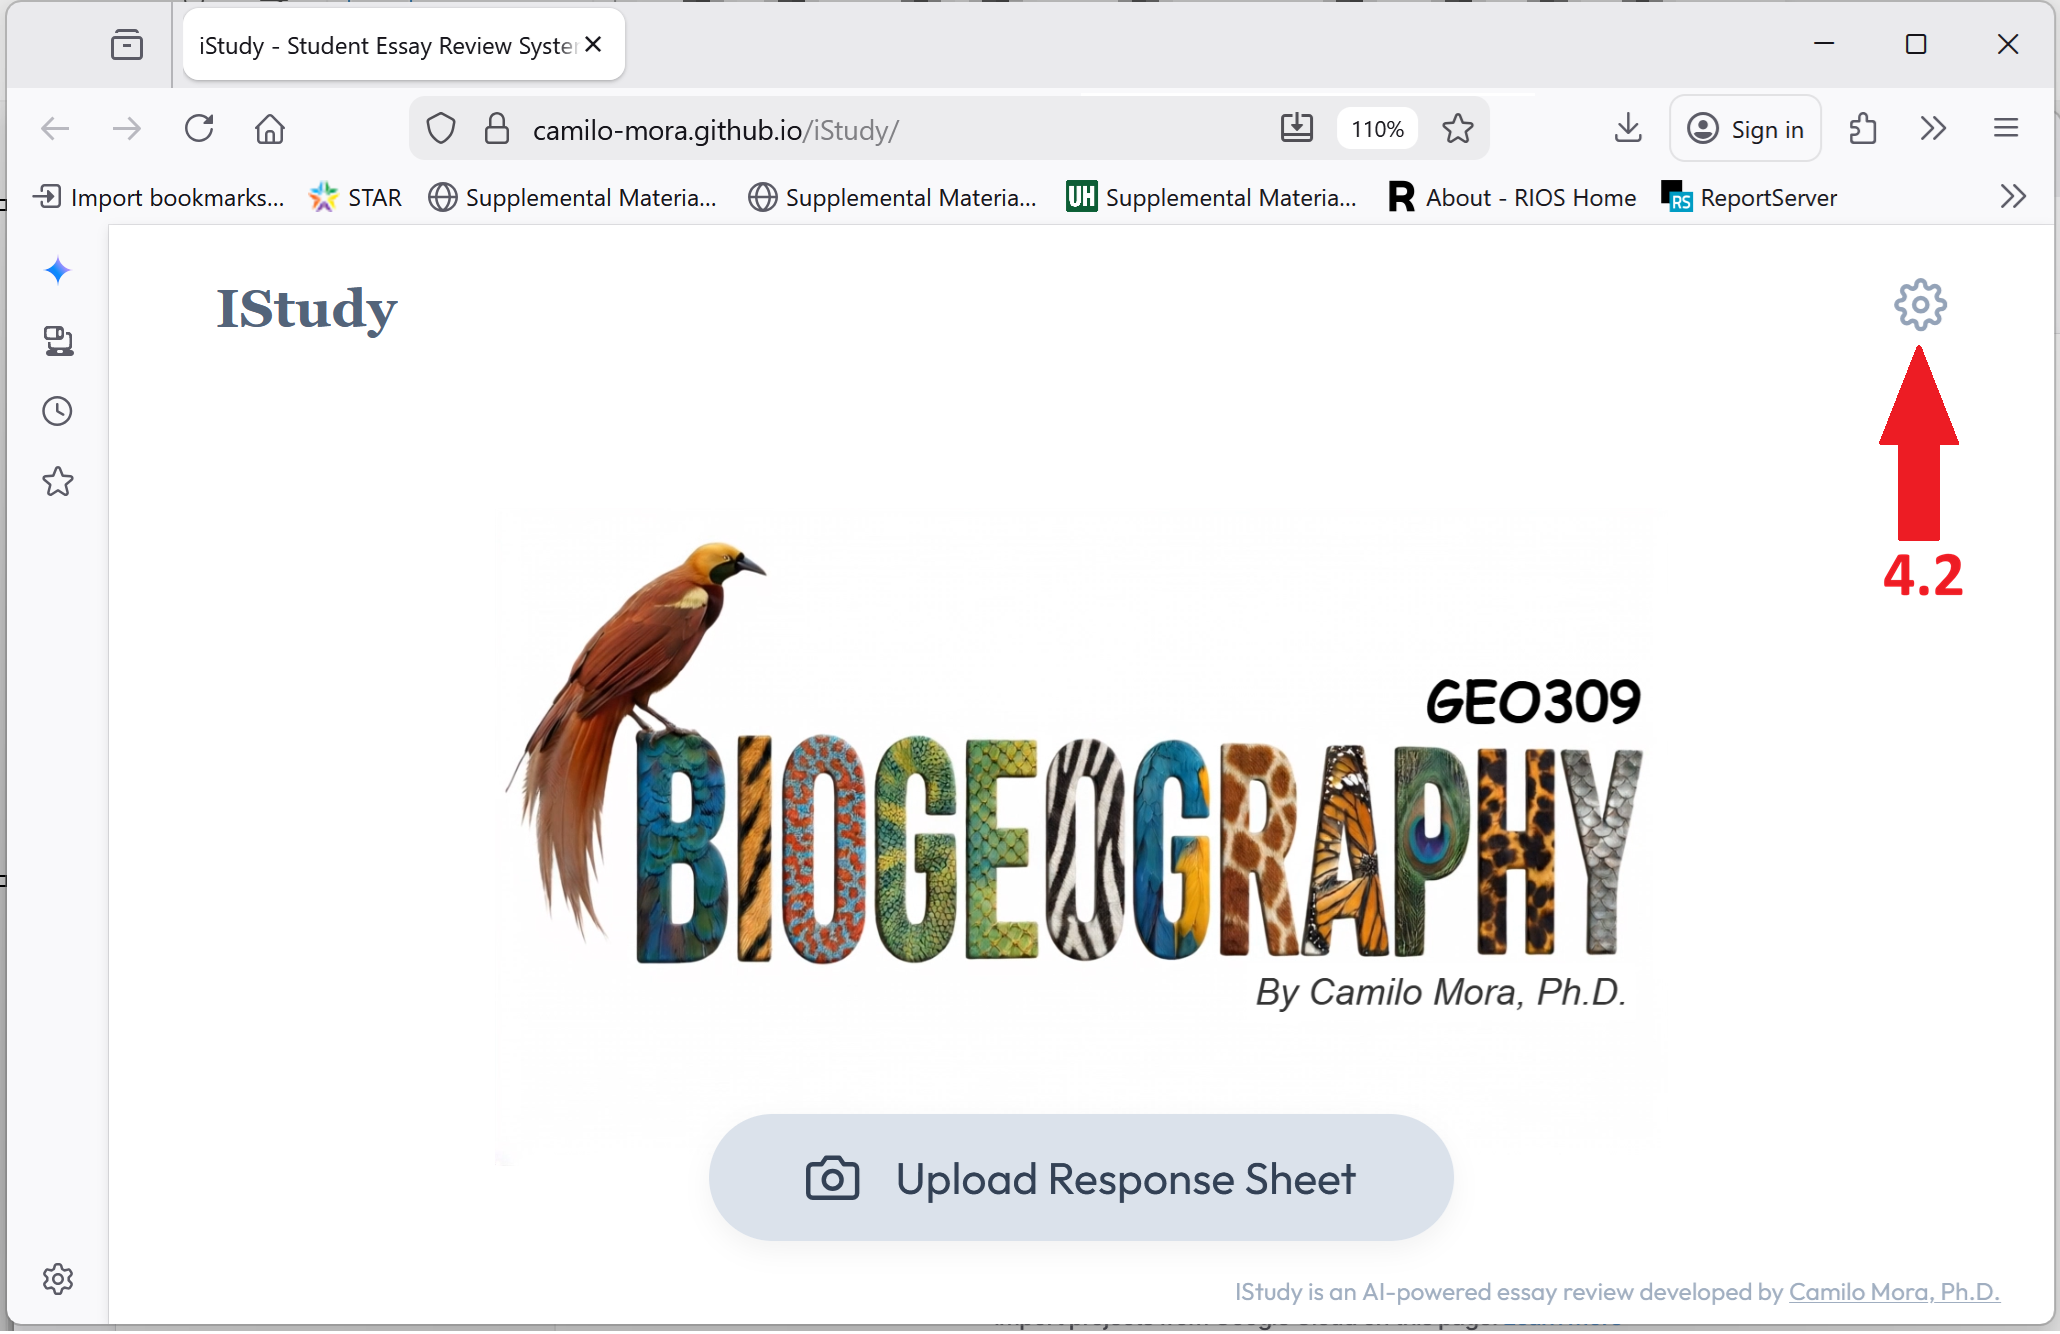
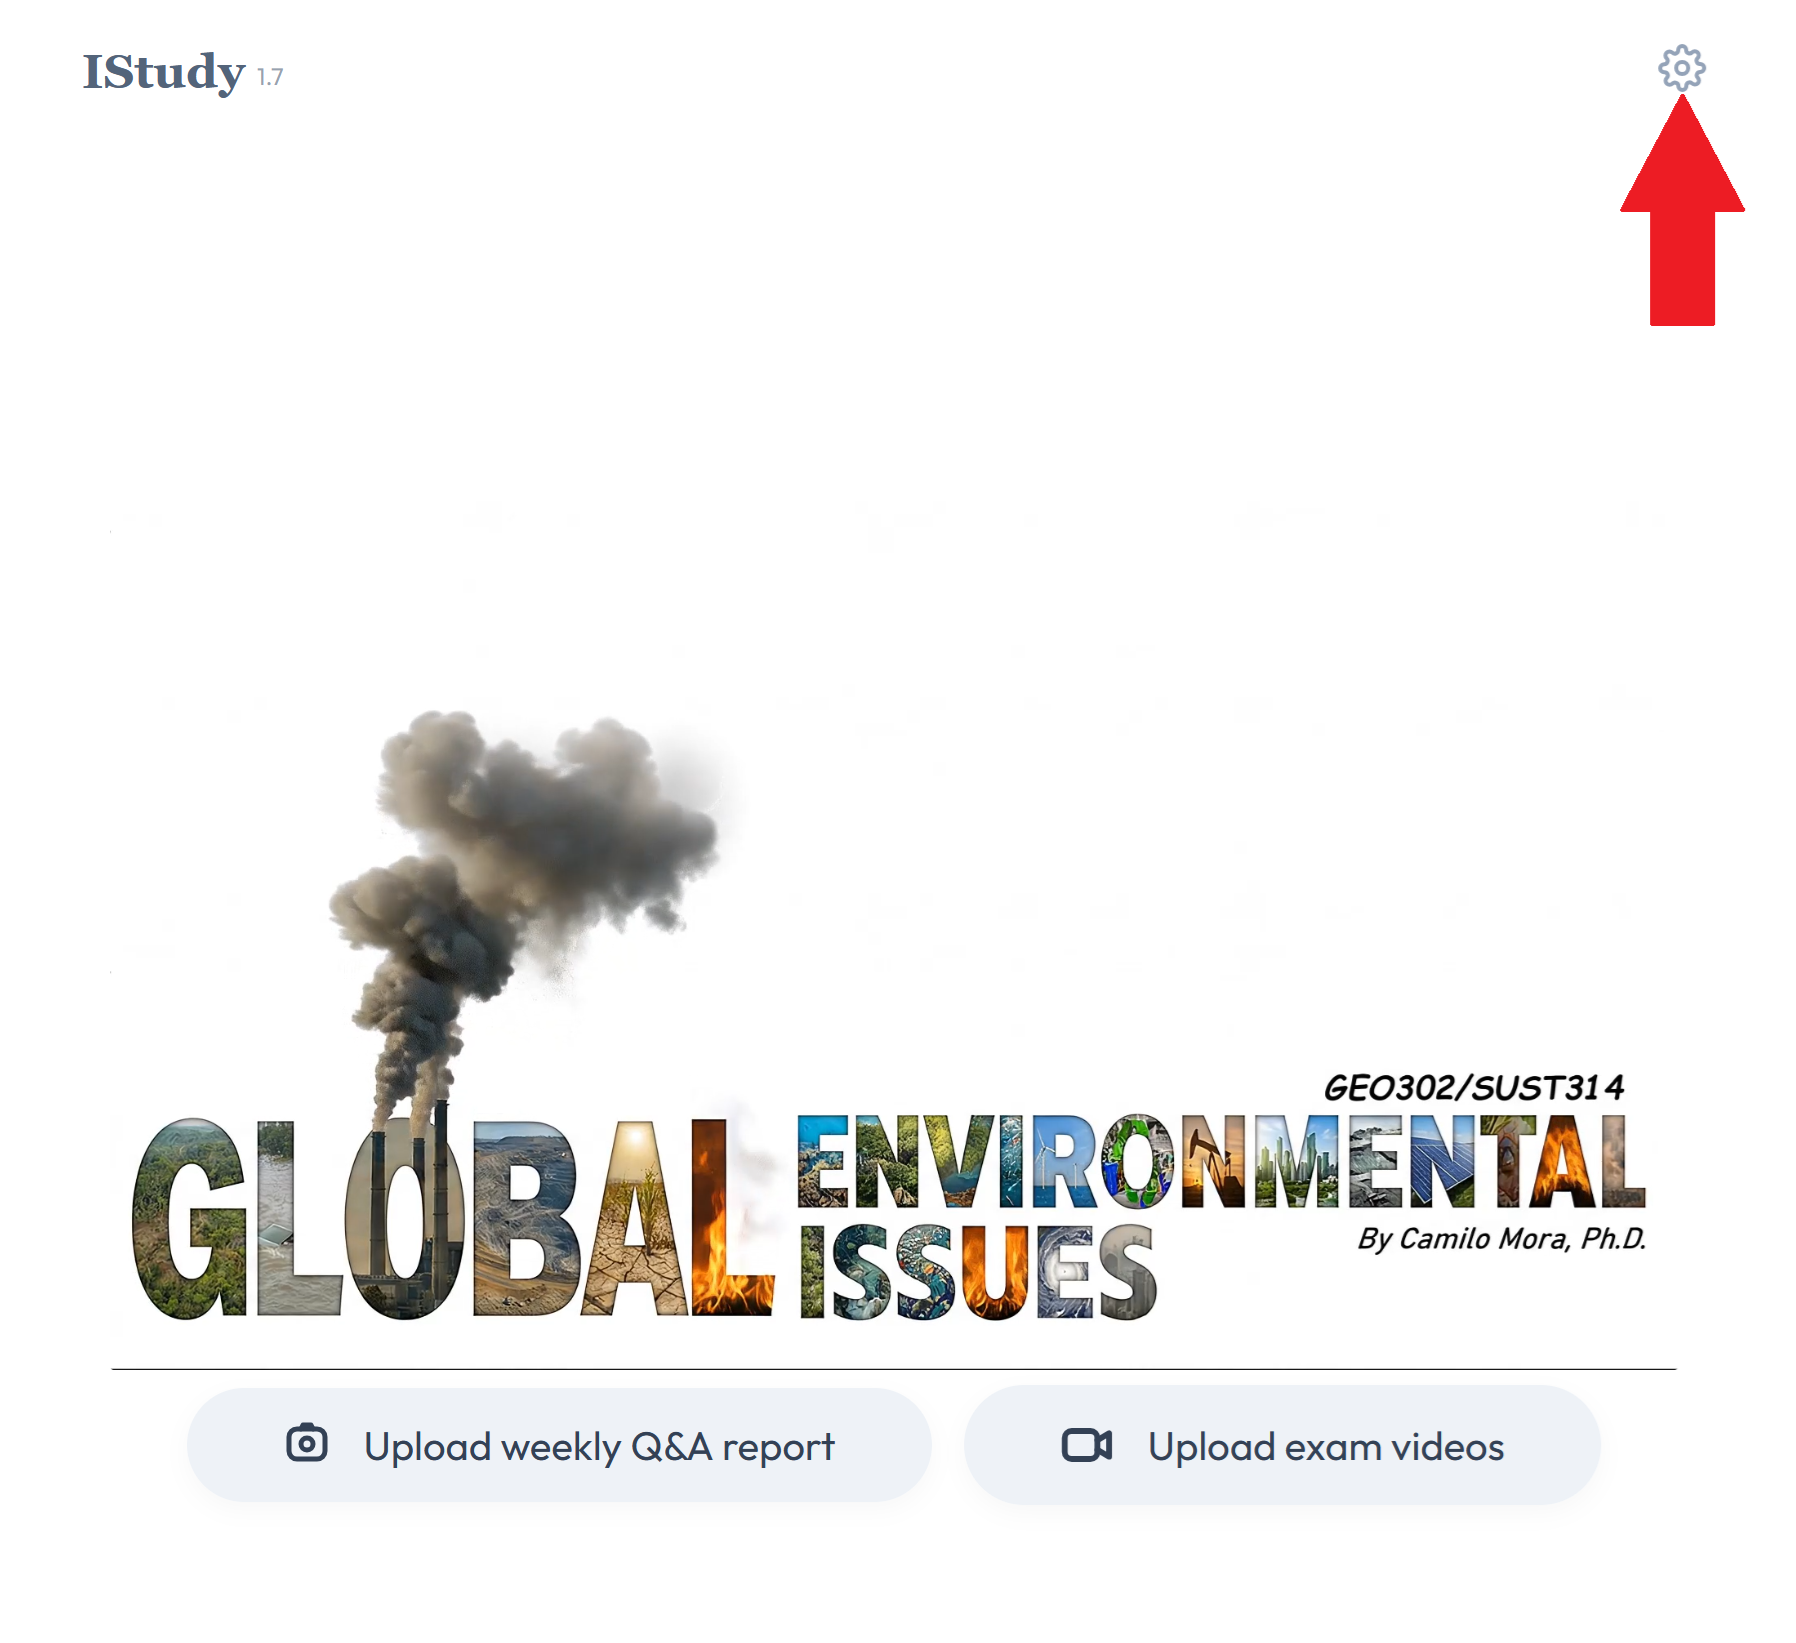
url

Changed region(s): [[0.0, 0.0, 1.0, 1.0], [0.0935, 0.2151, 0.1871, 0.2459]]

diff --git a/docs/launch-istudy-app.html b/docs/launch-istudy-app.html
@@ -129,7 +129,7 @@ GEO302 and SUST314 by Camilo Mora, Ph.D.<br />
 <h1>Launch iStudy App<a href="launch-istudy-app.html#launch-istudy-app" class="anchor-section" aria-label="Anchor link to header"></a></h1>
 <p>After you have watched a video for a given chapter, and collected all your responses in an image or text file, load them in this app:</p>
 <p>Expect to work at least 60 minutes reviewing your responses for any given chapter. The app cannot save data so if you do not finish submitting all your work in one go, you will have to start from scratch, so please be warned of this time requirement.</p>
-<p><a href="https://camilo-mora.github.io/iStudy/" target="_blank"><img src="images/launch_button.PNG" alt="Launch iStudy App" /></a></p>
+<p><a href="https://camilo-mora.github.io/iStudy/302/" target="_blank"><img src="images/launch_button.PNG" alt="Launch iStudy App" /></a></p>
 </div>
             </section>
 
